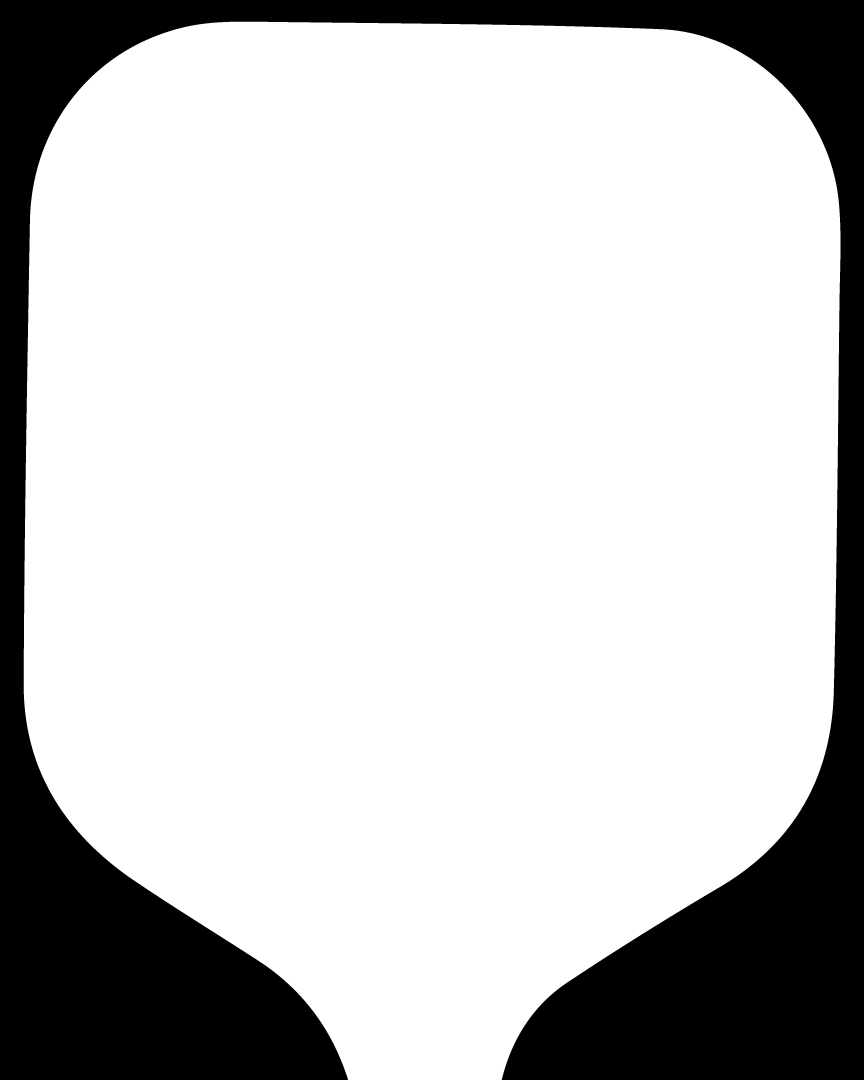
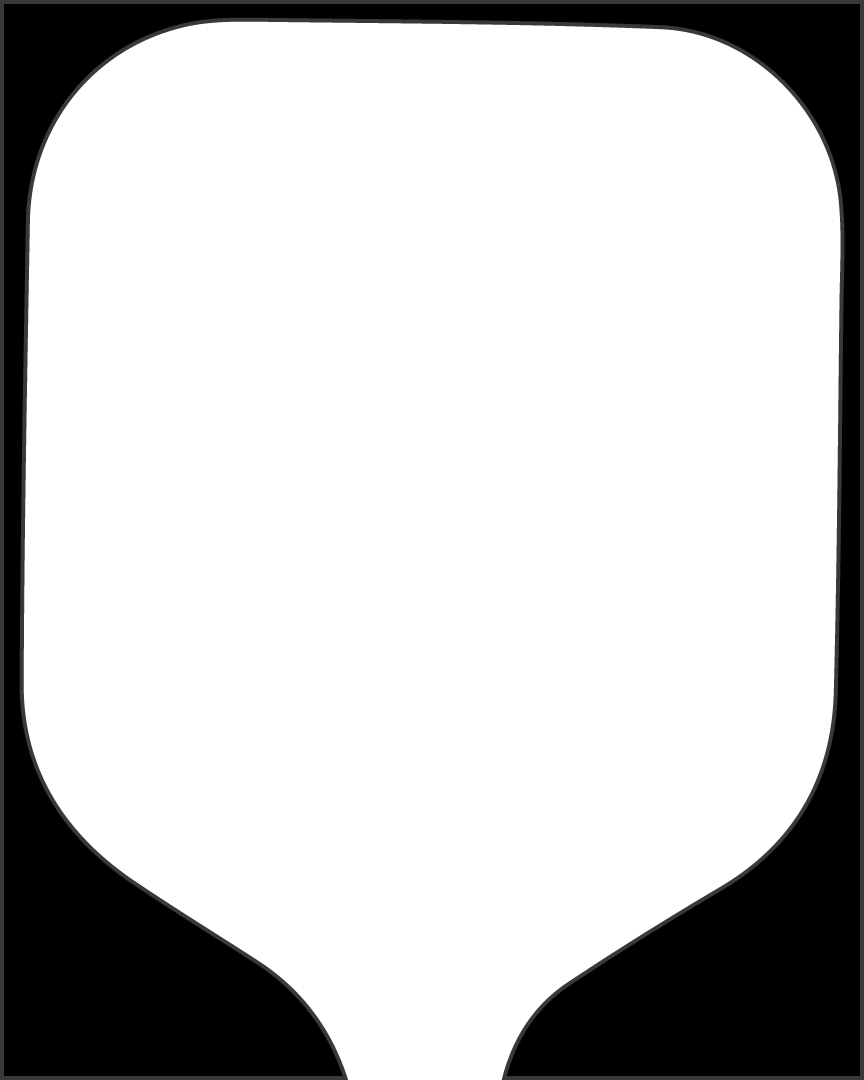
custom-filler

diff --git a/components/custom-paddles/CustomPaddleImageEditor.jsx b/components/custom-paddles/CustomPaddleImageEditor.jsx
@@ -1,5 +1,6 @@
 'use client';
 import {
+  colorStringToColorArray,
   createDefaultColorOptions,
   createDefaultImageOrienter,
   createDefaultImageReader,
@@ -21,7 +22,7 @@ import {
 } from '@pqina/pintura';
 import { PinturaEditor } from '@pqina/react-pintura';
 import { useEffect, useRef, useState } from 'react';
-import './pintura.css';
+
 function CustomPaddlesImageEditor({
   image,
   getImage,
@@ -80,6 +81,17 @@ function CustomPaddlesImageEditor({
       ]
     };
   };
+  function HextoRGB(hex) {
+    hex = hex.replace(/^#/, '');
+
+    let bigint = parseInt(hex, 16);
+
+    let r = (bigint >> 16) & 255;
+    let g = (bigint >> 8) & 255;
+    let b = bigint & 255;
+
+    return { r, g, b };
+  }
   const handleSave = () => {
     if (editorRef.current) {
       editorRef.current.editor.processImage().then(async (res) => {
@@ -93,10 +105,17 @@ function CustomPaddlesImageEditor({
       handleSave();
     }
   }, [side]);
-
+  const [fillColor, setFillColor] = useState([255, 255, 255]);
+  const [fillColorCode, setFillColorCode] = useState('#ffffff');
+  const getFillColorCode = (e) => {    
+    const color = HextoRGB(e.target.value);
+    setFillColor(colorStringToColorArray(`rgba(${color.r}, ${color.g}, ${color.b}, 1)`));
+    setFillColorCode(e.target.value);
+  };
+ 
   const editorDefaults = getEditorDefaults({
     imageReader: createDefaultImageReader(),
-    imageOrienter: createDefaultImageOrienter(),
+    imageOrienter: createDefaultImageOrienter(),    
     imageWriter: {
       targetSize: {
         width: 591,
@@ -109,37 +128,36 @@ function CustomPaddlesImageEditor({
           canvas.width = imageData.width;
           canvas.height = imageData.height;
           const ctx = canvas.getContext('2d');
-          
+
           // Draw the image data onto the canvas
           ctx.putImageData(imageData, 0, 0);
-          
+
           // Define the SVG path
           const svgPath = new Path2D(
             'M250.98,1126.21h81.21v-8.15l3.45-254.07c0.15-7.02,0.59-14.13,1.32-21.11c2.29-22.03,8.12-43.42,17.34-63.57   c6.3-13.77,14.4-26.66,24.08-38.29c14.28-17.16,31.11-31.87,50.03-43.71c8.61-5.39,17.62-10.33,26.78-14.68   c69.98-32.78,115.22-103.89,115.25-181.17V201.09c-0.07-73.69-43.01-141.98-109.4-173.96c-26.38-12.71-55.8-19.45-85.09-19.5h-84.33   c-9.43,0.38-19.01,0.46-28.45,0.23c-14.42-0.34-29.05-0.54-43.5-0.6c-14.45-0.06-29.05,0.91-43.37,2.87   c-12.14,1.66-24.09,4.74-35.52,9.15c-0.01,0-0.02,0.01-0.03,0.01c-24.07,8.82-45.92,22.02-64.94,39.22   c-39.97,36.5-62.96,88.47-63.08,142.59l0,300.32c0.19,77.22,45.48,148.35,115.36,181.2c10.19,4.9,20.16,10.53,29.63,16.71   c9.48,6.2,18.61,13.13,27.12,20.6c18.23,16.21,32.76,35.61,43.18,57.67c12.61,26.85,19.38,56.71,19.6,86.37l3.36,254.07V1126.21z'
           );
-          
+
           // Apply the mask (destination-in)
           ctx.globalCompositeOperation = 'destination-in';
           ctx.fillStyle = 'black';
           ctx.fill(svgPath);
-          
+
           // Get the masked image data
           const maskedImageData = ctx.getImageData(0, 0, canvas.width, canvas.height);
-          
+
           // Clear the canvas or create a new one
           ctx.clearRect(0, 0, canvas.width, canvas.height);
           ctx.putImageData(maskedImageData, 0, 0);
-          
+
           // Draw the stroke
           ctx.globalCompositeOperation = 'source-over'; // Ensure normal drawing mode
           ctx.strokeStyle = 'red'; // Stroke color
           ctx.lineWidth = 10; // Stroke width
           ctx.stroke(svgPath);
-          
+
           // Resolve with the updated masked image data
           const finalImageData = ctx.getImageData(0, 0, canvas.width, canvas.height);
           resolve(finalImageData);
-          
         })
     },
     ...markup_editor_defaults,
@@ -156,6 +174,17 @@ function CustomPaddlesImageEditor({
   editorDefaults.locale.annotateLabel = 'Text';
   return (
     <div className={` ${className || ''} left-0 h-full w-full`}>
+      <div className='absolute  bottom-4 right-4 z-[1]'>
+        <label className='text-[#BBA887] text-sm font-medium uppercase block text-center mb-0.5'>Fill</label>
+      <input
+      className='w-[40px] h-[40px]'
+        type="color"
+        id="favcolor"
+        name="favcolor"
+        onChange={(e) => getFillColorCode(e)}
+        value={fillColorCode}
+      />
+      </div>
       <PinturaEditor
         {...editorDefaults}
         src={image}
@@ -168,8 +197,7 @@ function CustomPaddlesImageEditor({
         imageScrambler={createDefaultImageScrambler({
           scrambleAmount: 2,
           blurAmount: 6
-        })}
-        fillOptions={[...Object.values(createDefaultColorOptions())]}
+        })}        
         willRenderCanvas={willRenderCanvas}
         markupEditorToolbar={[['text', 'text', { disabled: true }]]}
         markupEditorToolStyles={createMarkupEditorToolStyles({
@@ -181,6 +209,7 @@ function CustomPaddlesImageEditor({
           }  
       })}
         imageCropAspectRatio={0.674}
+        imageBackgroundColor={fillColor}
         zoomAdjustWheelFactor={5}
         stickersticktoimage={true}
         cropInteractionFocus="selection"

diff --git a/components/custom-paddles/CustomPaddlesEditor.jsx b/components/custom-paddles/CustomPaddlesEditor.jsx
@@ -1,16 +1,15 @@
 'use client';
 import { AddToCartBuilder } from 'components/cart/add-to-cart';
 import { toPng } from 'html-to-image';
-
+import './pintura.css';
 // import { useRef, useState } from 'react';
-import { AddToCart } from 'components/cart/add-to-cart';
+import UploadWithLoader from 'components/common/LoaderModal';
+import restartIcon from 'public/assets/restart.png';
 import { useEffect, useRef, useState } from 'react';
+import ContactCreativeTeam from './ContactCreativeTeam';
 import CustomPaddleBottomSvg from './CustomPaddleBottomSvg';
 import CustomPaddleSvg from './CustomPaddleSvg';
 import CustomPaddlesEditorPopup from './CustomPaddlesEditorPopup';
-import UploadWithLoader from 'components/common/LoaderModal';
-import restartIcon from 'public/assets/restart.png';
-import ContactCreativeTeam from './ContactCreativeTeam';
 
 const CustomPaddlesEditor = ({ getProductData }) => {
   const capture = useRef();

diff --git a/components/custom-paddles/CustomPaddlesEditorPopup.tsx b/components/custom-paddles/CustomPaddlesEditorPopup.tsx
@@ -95,7 +95,11 @@ const CustomPaddlesEditorPopup = ({ open, closePopup, setFormData, formData }: a
     }
   }, [formData]);
   const getSide = () => {
-    if (formData?.front || formData?.back) {
+    if(activeTab == 'front' && formData?.front){
+      setLoading(true);
+      setSide(Math.random());
+    }
+    if(activeTab == 'back' && formData?.back){
       setLoading(true);
       setSide(Math.random());
     }

diff --git a/utils/HextoRGB.js b/utils/HextoRGB.js
@@ -1,0 +1,11 @@
+export function HextoRGB(hex) {
+    hex = hex.replace(/^#/, '');
+
+    let bigint = parseInt(hex, 16);
+  
+    let r = (bigint >> 16) & 255;
+    let g = (bigint >> 8) & 255;
+    let b = bigint & 255;
+  
+    return { r, g, b };
+  }
